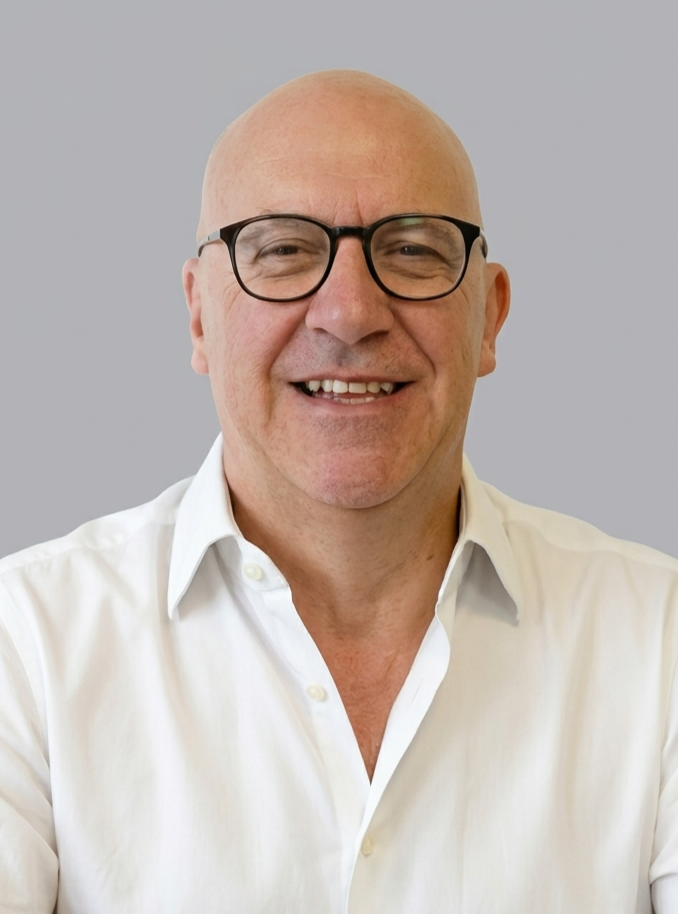
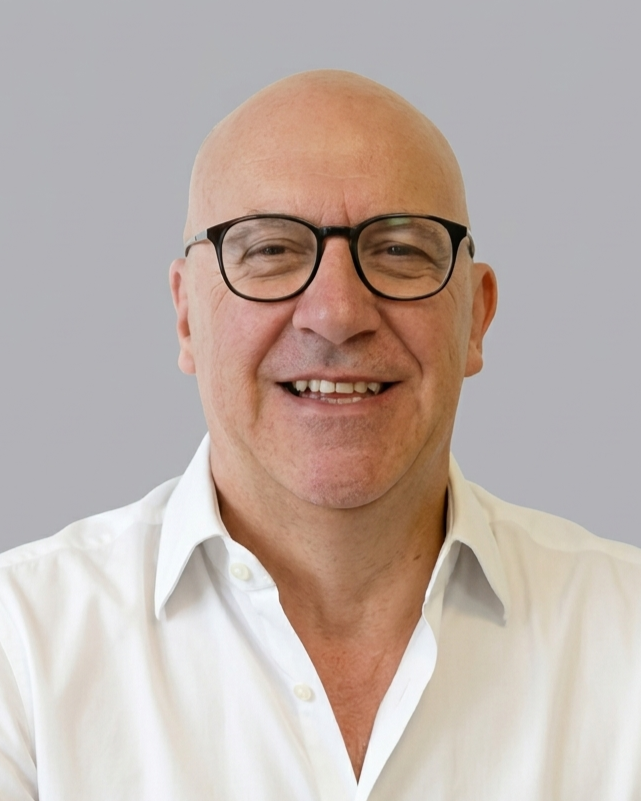
Update Team “phil-rundell” +2

diff --git a/content/team/phil-rundell.en.md b/content/team/phil-rundell.en.md
@@ -4,14 +4,6 @@ role: CFO / Company Secretary
 team_section: Technical
 photo: /uploads/Phil.png
 home_credential: ''
-bio: >-
-  Phil Rundell (Dip BS (Accounting, CA) is a former Partner at Coopers & Lybrand
-  (now PricewaterhouseCoopers) and a Director at Ferrier Hodgson. He is now a
-  sole practitioner Chartered Accountant specialising in providing company
-  secretarial, compliance, accounting and reconstruction services. Phil was
-  Company Secretary (and equivalent CFO) of Aspire Mining Limited (ASX:AKM) for
-  over 10 years (Feb 2010 to Dec 2022) and was Company Secretary and CFO of Peak
-  Rare Earths Limited (formerly ASX:PEK) (Dec 2020 to Oct 2025)
+bio: Phil Rundell (Dip BS (Accounting, CA) is a former Partner at Coopers & Lybrand (now PricewaterhouseCoopers) and a Director at Ferrier Hodgson. He is now a sole practitioner Chartered Accountant specialising in providing company secretarial, compliance, accounting and reconstruction services. Phil was Company Secretary (and equivalent CFO) of Aspire Mining Limited (ASX:AKM) for over 10 years (Feb 2010 to Dec 2022) and was Company Secretary and CFO of Peak Rare Earths Limited (formerly ASX:PEK) (Dec 2020 to Oct 2025)
 order: 1
 ---
-

diff --git a/content/team/phil-rundell.mn.md b/content/team/phil-rundell.mn.md
@@ -3,11 +3,6 @@ name: Phil Rundell
 role: Санхүүгийн захирал / Компанийн нарийн бичгийн дарга
 team_section: Technical
 photo: /uploads/team/technical_team/Rundell-1-300x300.png
+bio: Phil Rundell нь Coopers & Lybrand, одоогийн PricewaterhouseCoopers-ийн түнш, Ferrier Hodgson-ийн захирал асан. Тэрээр одоо компанийн нарийн бичгийн ажил, нийцэл, нягтлан бодох бүртгэл, бүтцийн өөрчлөлтийн үйлчилгээний чиглэлээр мэргэшсэн, бие даан ажилладаг мэргэшсэн нягтлан бодогч юм.
 order: 1
-bio: >-
-  Phil Rundell нь Coopers & Lybrand, одоогийн PricewaterhouseCoopers-ийн түнш,
-  Ferrier Hodgson-ийн захирал асан. Тэрээр одоо компанийн нарийн бичгийн ажил,
-  нийцэл, нягтлан бодох бүртгэл, бүтцийн өөрчлөлтийн үйлчилгээний чиглэлээр
-  мэргэшсэн, бие даан ажилладаг мэргэшсэн нягтлан бодогч юм.
 ---
-
